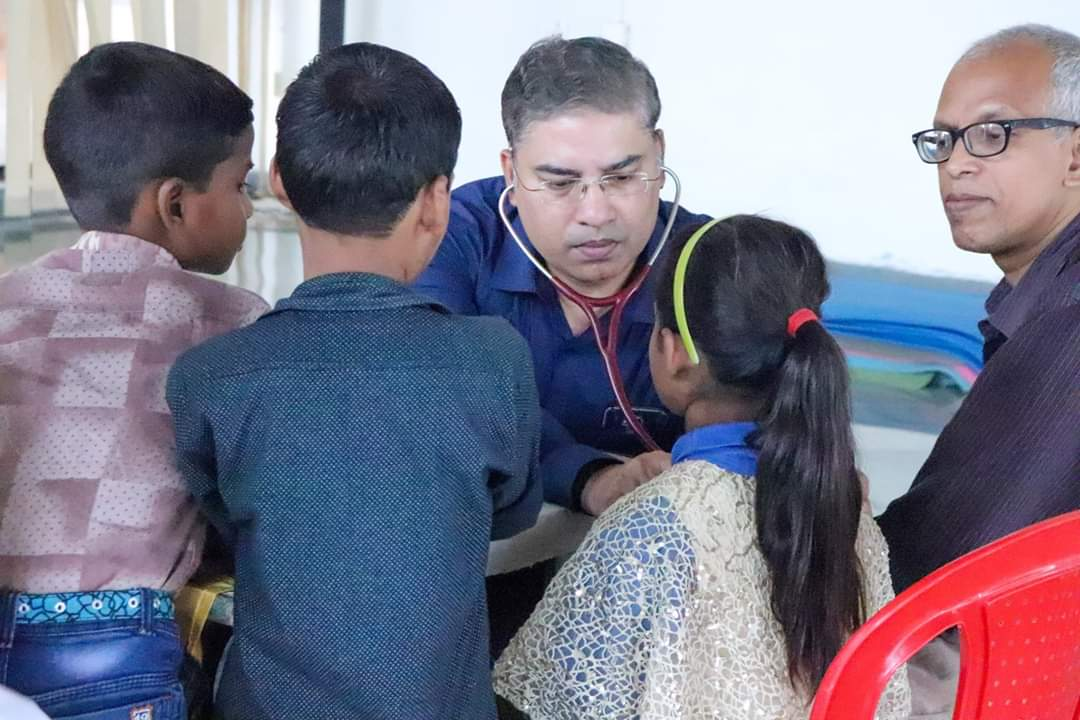
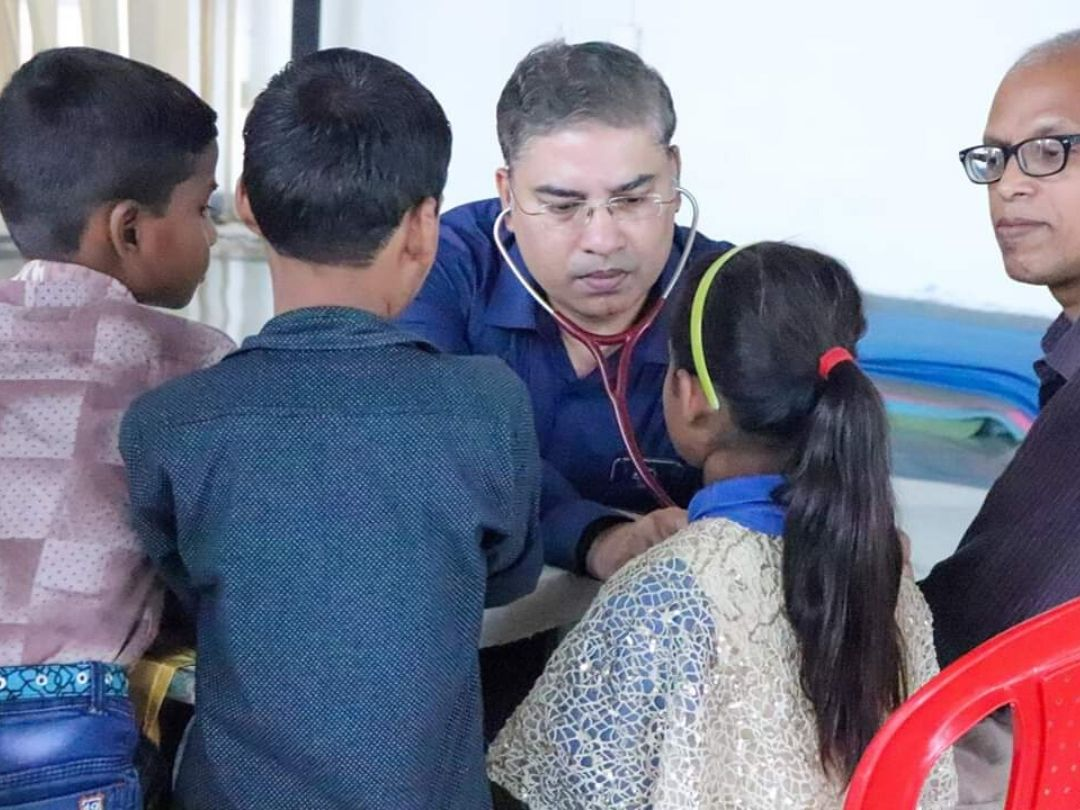
remove description from activities page

diff --git a/docs/activities/rio-furniture-3/index.html b/docs/activities/rio-furniture-3/index.html
@@ -116,29 +116,10 @@
 <section class="portfolio-single-page section-sm">
   <div class="container">
     <div class="row">
-      <div class="col-md-8">
+      <div class="col-md-12">
         <img class="img-responsive w-100" src="/vs/images/Cloth%20donation%202.jpg" alt="">
       </div>
-      <div class="col-md-4">
-        <div class="project-details">
-          <h4>Project Details</h4>
-          <ul>
-            
-            <li><span>Client :</span> <strong>Jannie Kelonsky</strong></li>
-            
-            <li><span>What We Did :</span> <strong>Website Redesign</strong></li>
-            
-            <li><span>Tools Used :</span> <strong>Photoshop,Illustrator</strong></li>
-            
-            <li><span>Completed on :</span> <strong>17th March 2014</strong></li>
-            
-            <li><span>Skills :</span> <strong>HTML5 / PHP / CSS3</strong></li>
-            
-            <li><span>Client :</span> <strong>Jannie Kelonsky</strong></li>
-            
-          </ul>
-        </div>
-      </div>
+     
     </div>
     <div class="row">
       <div class="col-md-12">

diff --git a/docs/activities/rio-furniture-5/index.html b/docs/activities/rio-furniture-5/index.html
@@ -116,29 +116,10 @@
 <section class="portfolio-single-page section-sm">
   <div class="container">
     <div class="row">
-      <div class="col-md-8">
+      <div class="col-md-12">
         <img class="img-responsive w-100" src="/vs/images/Health%20camp2.jpg" alt="">
       </div>
-      <div class="col-md-4">
-        <div class="project-details">
-          <h4>Project Details</h4>
-          <ul>
-            
-            <li><span>Client :</span> <strong>Jannie Kelonsky</strong></li>
-            
-            <li><span>What We Did :</span> <strong>Website Redesign</strong></li>
-            
-            <li><span>Tools Used :</span> <strong>Photoshop,Illustrator</strong></li>
-            
-            <li><span>Completed on :</span> <strong>17th March 2014</strong></li>
-            
-            <li><span>Skills :</span> <strong>HTML5 / PHP / CSS3</strong></li>
-            
-            <li><span>Client :</span> <strong>Jannie Kelonsky</strong></li>
-            
-          </ul>
-        </div>
-      </div>
+     
     </div>
     <div class="row">
       <div class="col-md-12">

diff --git a/docs/activities/rio-furniture-4/index.html b/docs/activities/rio-furniture-4/index.html
@@ -116,29 +116,10 @@
 <section class="portfolio-single-page section-sm">
   <div class="container">
     <div class="row">
-      <div class="col-md-8">
+      <div class="col-md-12">
         <img class="img-responsive w-100" src="/vs/images/Lecture%201.jpg" alt="">
       </div>
-      <div class="col-md-4">
-        <div class="project-details">
-          <h4>Project Details</h4>
-          <ul>
-            
-            <li><span>Client :</span> <strong>Jannie Kelonsky</strong></li>
-            
-            <li><span>What We Did :</span> <strong>Website Redesign</strong></li>
-            
-            <li><span>Tools Used :</span> <strong>Photoshop,Illustrator</strong></li>
-            
-            <li><span>Completed on :</span> <strong>17th March 2014</strong></li>
-            
-            <li><span>Skills :</span> <strong>HTML5 / PHP / CSS3</strong></li>
-            
-            <li><span>Client :</span> <strong>Jannie Kelonsky</strong></li>
-            
-          </ul>
-        </div>
-      </div>
+     
     </div>
     <div class="row">
       <div class="col-md-12">

diff --git a/docs/activities/rio-furniture-6/index.html b/docs/activities/rio-furniture-6/index.html
@@ -116,29 +116,10 @@
 <section class="portfolio-single-page section-sm">
   <div class="container">
     <div class="row">
-      <div class="col-md-8">
+      <div class="col-md-12">
         <img class="img-responsive w-100" src="/vs/images/Workshop2.jpg" alt="">
       </div>
-      <div class="col-md-4">
-        <div class="project-details">
-          <h4>Project Details</h4>
-          <ul>
-            
-            <li><span>Client :</span> <strong>Jannie Kelonsky</strong></li>
-            
-            <li><span>What We Did :</span> <strong>Website Redesign</strong></li>
-            
-            <li><span>Tools Used :</span> <strong>Photoshop,Illustrator</strong></li>
-            
-            <li><span>Completed on :</span> <strong>17th March 2014</strong></li>
-            
-            <li><span>Skills :</span> <strong>HTML5 / PHP / CSS3</strong></li>
-            
-            <li><span>Client :</span> <strong>Jannie Kelonsky</strong></li>
-            
-          </ul>
-        </div>
-      </div>
+     
     </div>
     <div class="row">
       <div class="col-md-12">

diff --git a/docs/activities/rio-furniture-2/index.html b/docs/activities/rio-furniture-2/index.html
@@ -116,29 +116,10 @@
 <section class="portfolio-single-page section-sm">
   <div class="container">
     <div class="row">
-      <div class="col-md-8">
+      <div class="col-md-12">
         <img class="img-responsive w-100" src="/vs/images/VYLC2.jpg" alt="">
       </div>
-      <div class="col-md-4">
-        <div class="project-details">
-          <h4>Project Details</h4>
-          <ul>
-            
-            <li><span>Client :</span> <strong>Jannie Kelonsky</strong></li>
-            
-            <li><span>What We Did :</span> <strong>Website Redesign</strong></li>
-            
-            <li><span>Tools Used :</span> <strong>Photoshop,Illustrator</strong></li>
-            
-            <li><span>Completed on :</span> <strong>17th March 2014</strong></li>
-            
-            <li><span>Skills :</span> <strong>HTML5 / PHP / CSS3</strong></li>
-            
-            <li><span>Client :</span> <strong>Jannie Kelonsky</strong></li>
-            
-          </ul>
-        </div>
-      </div>
+     
     </div>
     <div class="row">
       <div class="col-md-12">

diff --git a/docs/activities/rio-furniture-1/index.html b/docs/activities/rio-furniture-1/index.html
@@ -116,25 +116,10 @@
 <section class="portfolio-single-page section-sm">
   <div class="container">
     <div class="row">
-      <div class="col-md-8">
+      <div class="col-md-12">
         <img class="img-responsive w-100" src="/vs/images/Meditation%202.jpg" alt="">
       </div>
-      <div class="col-md-4">
-        <div class="project-details">
-          <h4>Project Details</h4>
-          <ul>
-            
-            <li><span>Day :</span> <strong>Saturday</strong></li>
-            
-            <li><span>Venue :</span> <strong>Multipurpose Room, New SAC Building</strong></li>
-            
-            <li><span>Time :</span> <strong>9:00 am onwards</strong></li>
-            
-            <li><span>Status :</span> <strong>Suspended until further notice</strong></li>
-            
-          </ul>
-        </div>
-      </div>
+     
     </div>
     <div class="row">
       <div class="col-md-12">
